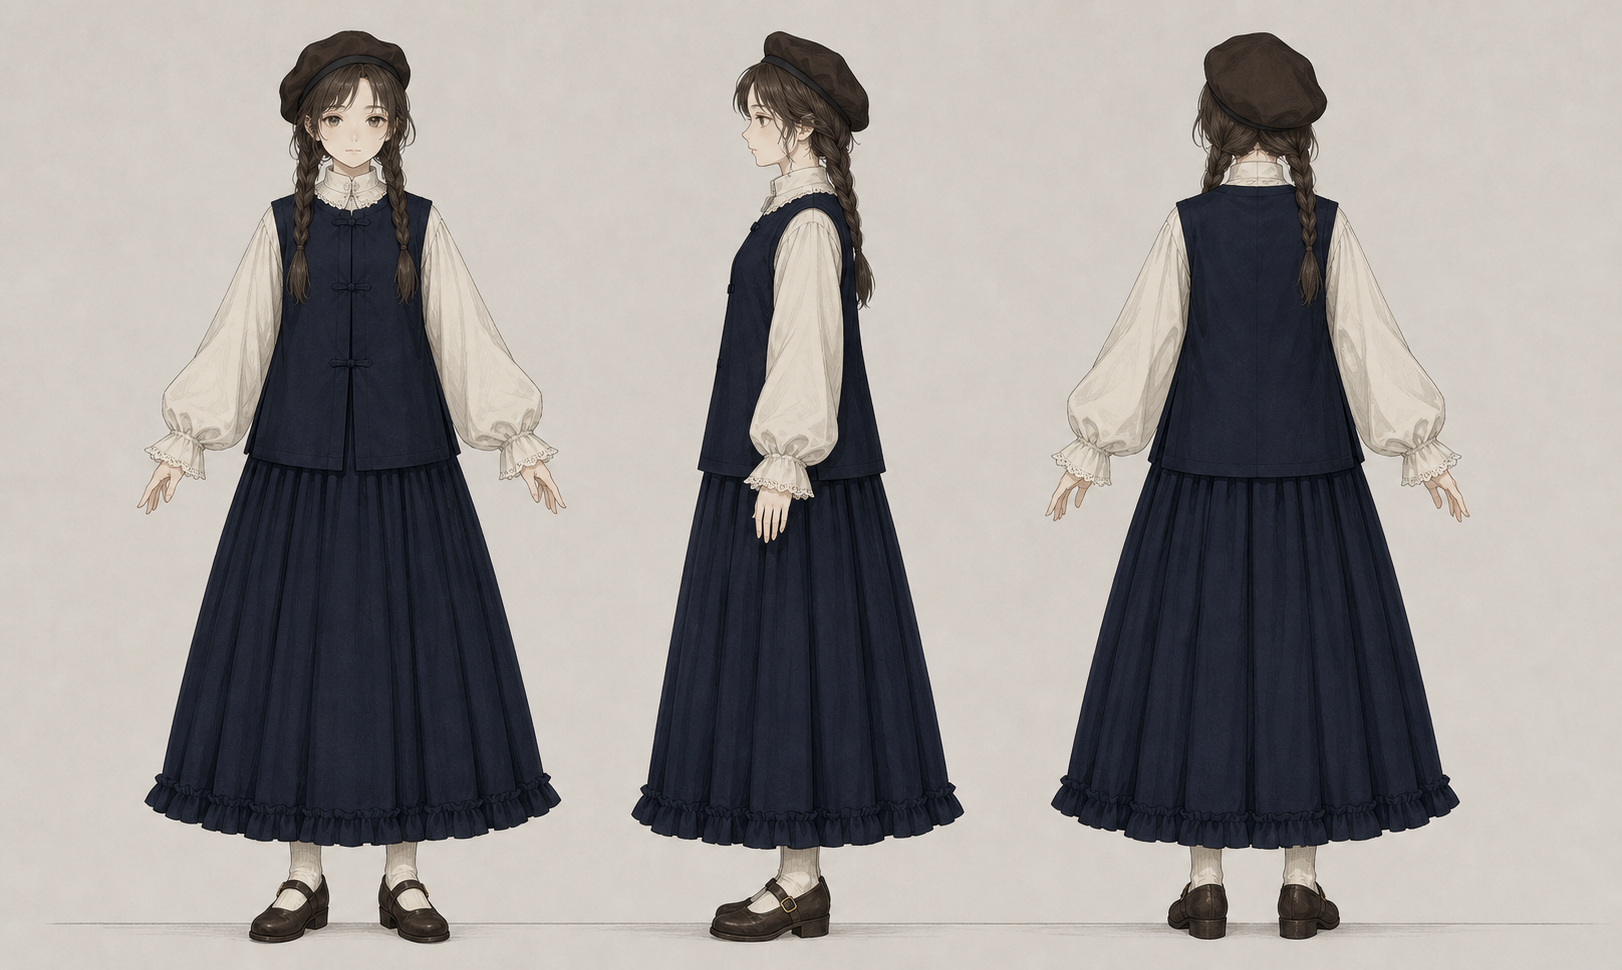
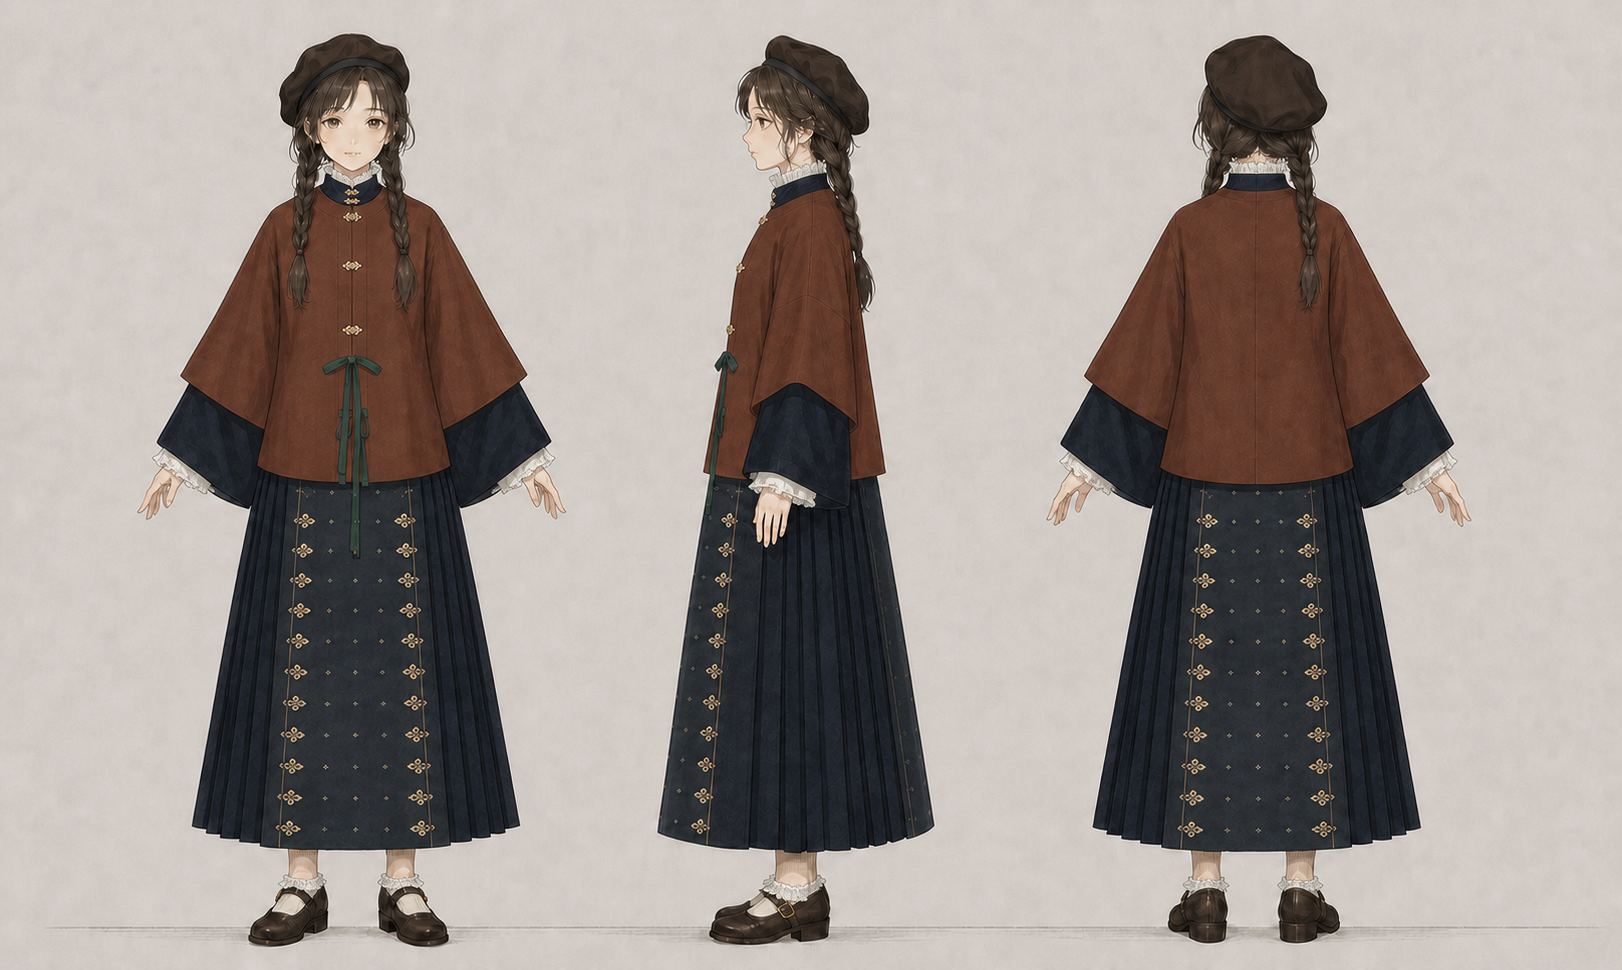
docs: refine standard female attire design (#6)
* fix: Add Ming Dynasty costume reference image

* fix: Update Chinese-style Victorian dress three-view diagram

* feat: Update female clothing standard three-view diagram

* docs: Update standard female attire to ochre-brown Mianmian-qun style

* docs: Refine clothing variant guidelines for color restraint

Changed region(s): [[0.0617, 0.0309, 0.6165, 0.9897], [0.6473, 0.0928, 0.894, 0.9897], [0.7398, 0.0309, 0.8015, 0.0619]]

diff --git a/04_UI_and_Art.md b/04_UI_and_Art.md
@@ -202,34 +202,36 @@ Nothing Happens
 
 ## 角色与服饰基准
 
-### 黛青比甲常服
+### 赭褐比甲马面常服
 
-“黛青比甲常服”是世界观中的通用女装基准。它以明制汉服的穿着逻辑和比甲轮廓为主体，只把蕾丝、褶边、软帽与皮鞋作为次级语言。明制决定轮廓、层次、开合和礼仪用途，维多利亚工艺影响材料、收边、合体程度与工业化制作精度。
+“赭褐比甲马面常服”是世界观中的通用女装基准。它以明制汉服的穿着逻辑、短阔袖比甲式外层和马面裙结构为主体，只把窄幅蕾丝褶边、软帽与皮鞋作为次级语言。明制决定轮廓、层次、开合和礼仪用途，维多利亚工艺影响材料、收边、合体程度与工业化制作精度。
 
 它不是两套现实服装的直接拼接，也不是蒸汽朋克变体。不同种族首先应被看作穿着同一时代日常服装的人，生理特征只在必要位置改变开口与穿法。
 
-![黛青比甲常服正面、侧面与背面三视图](assets/服饰/三视图/中式维多利亚女装-标准三视图.png)
+![赭褐比甲马面常服正面、侧面与背面三视图](assets/服饰/三视图/中式维多利亚女装-标准三视图.png)
 
 图中人物采用日式角色设定画法与标准人形比例，不代表具体种族。后续变体应在同一人体和服装基底上增加少量关键生理特征。
 
 ### 服装结构
 
-- **内层**：暖白素色立领长袖衫，袖身宽松，袖口收束。
-- **主体**：黛青色无袖比甲，以清楚中线、直身前后片和布结固定轮廓，始终是视觉核心。
-- **下装**：与比甲同色的近踝长裙，以纵向褶裥形成体积，不使用印花裙片或西式裙撑。
-- **穿着关系**：先穿内衫与长裙，再罩比甲。侧面自然直落，不做束腰、紧身胸衣或夸张臀垫。
-- **近代语汇**：蕾丝只用于领口与袖口，褶边只用于袖口与裙摆；深棕软圆帽与低跟搭扣皮鞋建立近代感，不改变汉服主体。
+- **内层**：深黛青立领宽袖衫，领缘与袖口只露出窄幅暖白蕾丝褶边。
+- **主体**：赭褐色短阔袖比甲式外层，衣长至髋部，以清楚中线、稀疏哑金花扣和暗青绿腰间系带固定轮廓，始终是视觉核心。
+- **下装**：深黛青近踝马面裙，正背面保留平整裙门，两侧使用规整平行褶，裙门只布置稀疏的小型哑金纹样，裙摆保持平直素净。
+- **穿着关系**：先穿内层宽袖衫与马面裙，再罩比甲式外层。侧面自然直落，不做束腰、紧身胸衣、裙撑或夸张臀垫。
+- **近代语汇**：暖白蕾丝褶边只用于领口、袖口和短袜袜口；深棕软圆帽、露出少量小腿的短袜与低跟搭扣皮鞋建立近代感，不改变汉服主体。
 
 ### 色彩与材质
 
 | 部位 | 核心色域 | 材质与表现 |
 |---|---|---|
-| 内衫、袜 | 暖白 | 亚麻或棉，哑光，带柔软细褶 |
-| 比甲、长裙 | 黛青至深靛 | 厚棉布或薄呢，素色，褶线清晰 |
-| 蕾丝、褶边 | 与所在衣片同色或近似 | 低对比度，不成为独立花纹 |
+| 内层立领与宽袖 | 黛青至深靛 | 厚棉布或薄呢，哑光，轮廓宽松 |
+| 比甲式外层 | 赭褐至砖褐 | 厚棉布或薄呢，可见低对比度暗纹，不改变分片阅读 |
+| 马面裙 | 黛青至深靛 | 裙门平整、侧褶清晰，只在裙门使用稀疏哑金小纹样 |
+| 短袜、蕾丝褶边 | 暖白 | 亚麻或棉，细密轻薄，只形成窄幅边缘 |
+| 系带、花扣 | 暗青绿、哑金 | 系带为布料，花扣小而稀疏，不形成清式盘扣轮廓 |
 | 软帽、皮鞋 | 极深棕 | 帽为呢料，鞋为磨砂或旧化皮革 |
 
-整套服装使用暖白、黛青和深棕构成克制统一的色域。织物纹理和明暗用于说明结构，不以印花、刺绣或撞色装饰制造信息量。
+整套服装以赭褐、黛青、暖白和深棕构成克制统一的色域，暗青绿与哑金只作为小面积强调。织物纹理和明暗优先说明结构，不以大面积印花、刺绣或撞色装饰制造信息量。
 
 ### 种族适配
 
@@ -237,12 +239,12 @@ Nothing Happens
 - 耳、叶片和枝条等头部结构可以调整软帽开口或佩戴方式，不能把帽子变成装饰架。
 - 肩胛、背部或身体接缝需要空间时，在比甲后片和裙腰增加同色窄开口，不另加饰物。
 - 关节、漆面接缝、肤色和自然接合线应从领口、袖口与手部正常露出，不通过撕裂或大面积裸露强调。
-- 南柯可使用更柔软的面料和宽松剪裁；比翼依靠身体中线、虹膜与明暗区分两半；偃偶强调标准化裁制；桃花妖服装避让本命枝。所有变体仍遵守素色、布料为主和无独立饰物的原则。
+- 南柯可使用更柔软的面料和宽松剪裁；比翼依靠身体中线、虹膜与明暗区分两半；偃偶强调标准化裁制；桃花妖服装避让本命枝。所有变体仍遵守克制配色、布料为主和无独立饰物的原则。
 
 ### 禁止项
 
 - 不加入项链、胸针、腰链、流苏、珠饰和金属挂件等独立配饰。
-- 不使用花卉、格纹、满绣、织金和大面积蕾丝图案。
+- 不使用格纹、满绣、大面积织金和大面积蕾丝图案；哑金纹样只允许稀疏分布在马面裙裙门。
 - 不加入齿轮、护目镜、铜管等蒸汽朋克符号。
 - 不把比甲改成西式马甲、外套或束腰胸衣。
 - 不使用西式舞会裙、裙撑、高跟鞋和夸张帽饰。
@@ -250,9 +252,10 @@ Nothing Happens
 
 ### 生产一致性
 
-- 正、侧、背视图使用一致的衣长、分片位置和褶边结构。
-- 比甲下摆保持在髋部附近，不能缩成腰封或延长成外袍。
-- 长裙保持近踝轮廓，站姿可辨认鞋型，动作稿需要验证袜口与完整鞋型。
+- 正、侧、背视图使用一致的衣长、分片、短阔袖、花扣、系带和蕾丝褶边结构。
+- 比甲式外层下摆保持在髋部附近，不能缩成腰封、改成无袖西式马甲或延长成外袍。
+- 马面裙保持近踝轮廓、平整裙门和两侧平行褶，裙摆不能增加蕾丝或褶边。
+- 短袜结束于脚踝上方，袜口与裙摆之间露出少量小腿；动作稿需要验证袜口蕾丝与完整鞋型。
 - 正常站姿下，衣袖与躯干之间留出空间，保证种族特征和动作仍可辨认。
 - 角色立绘可以加入自然姿态；建模、拆件和换装稿以标准三视图的直立轮廓为准。
 
@@ -260,9 +263,10 @@ Nothing Happens
 
 | 参考 | 使用边界 |
 |---|---|
-| ![深蓝比甲与素色汉服参考](assets/服饰/参考/明制汉服-深蓝比甲结构参考.jpg) | 只用于服装基底、比甲核心地位、素色面料和长裙体积 |
+| ![明制比甲与马面裙实物结构参考](assets/服饰/参考/明制比甲与马面裙-实物结构参考.png) | 只参考短阔袖外层、稀疏扣饰、腰间系带、马面裙裙门与侧褶结构，不照搬镜自拍摄姿势与背景 |
+| ![深蓝比甲与素色汉服参考](assets/服饰/参考/明制汉服-深蓝比甲结构参考.jpg) | 只用于明制穿着层次、比甲核心地位和素色面料，不参考无袖轮廓与普通长裙结构 |
 | ![维多利亚服饰插画氛围参考](assets/服饰/参考/维多利亚服饰-插画氛围参考.jpg) | 只参考克制的旧式气质、蕾丝和褶边语言，不照搬裙装与器械 |
-| ![中式长裙、软帽和皮鞋搭配参考](assets/服饰/参考/中式长裙-帽饰皮鞋搭配参考.jpg) | 只参考中式长裙与软帽、皮鞋的搭配，不参考上衣、格纹、挂饰和裙装结构 |
+| ![中式长裙、软帽和皮鞋搭配参考](assets/服饰/参考/中式长裙-帽饰皮鞋搭配参考.jpg) | 只参考软帽、短袜和皮鞋的搭配，不参考上衣、格纹、挂饰和裙装结构 |
 
 ## 资产组织与维护
 
